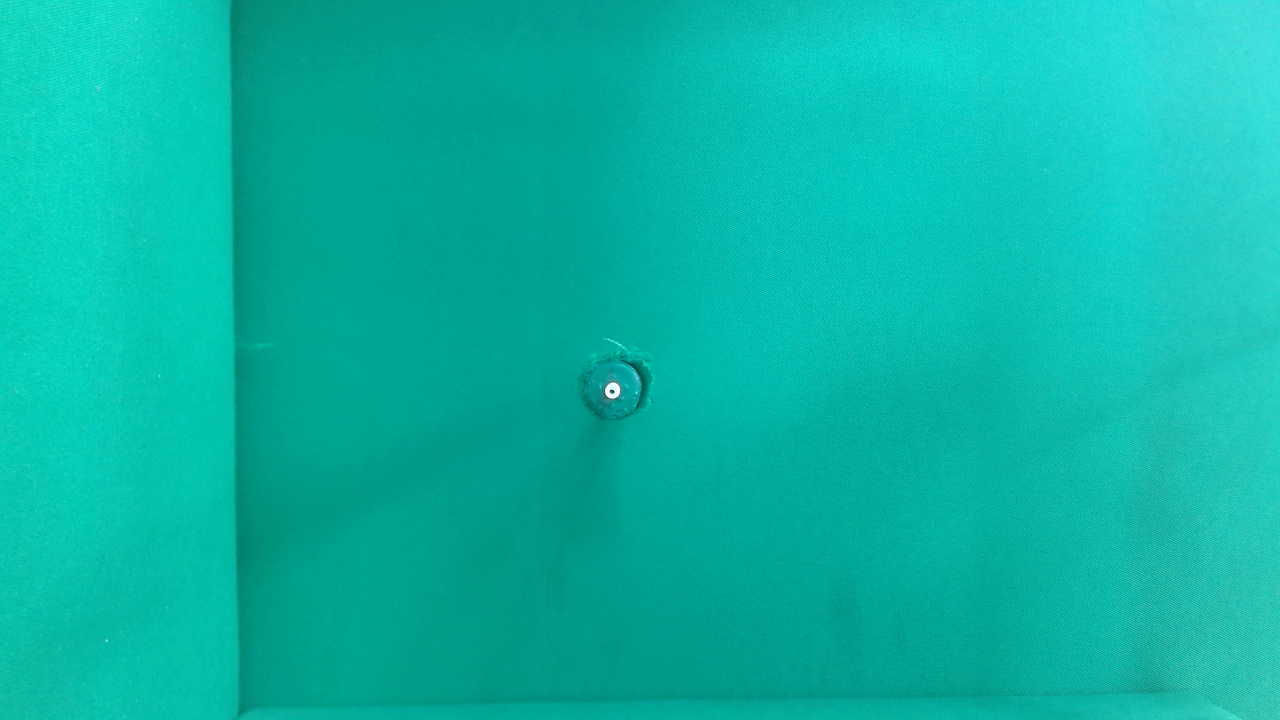
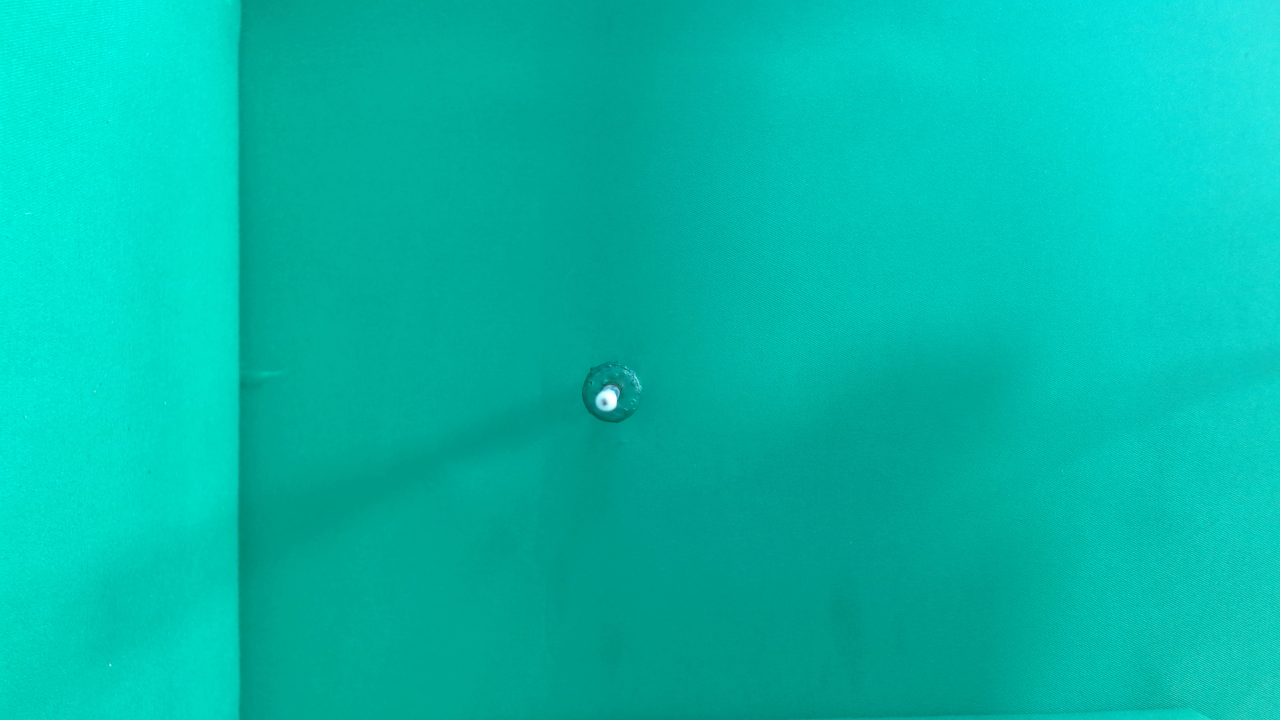
testing calib stuff

diff --git a/scripts/raw_image_publisher.py b/scripts/raw_image_publisher.py
@@ -10,7 +10,7 @@ import subprocess
 cam0_device = "/dev/cam0"
 cam1_device = "/dev/cam1"
 cam2_device = "/dev/cam2"
-cam0_focus_value = 40
+cam0_focus_value = 50
 cam1_focus_value = 70
 cam2_focus_value = 80
 cap_frame_width = 1280
